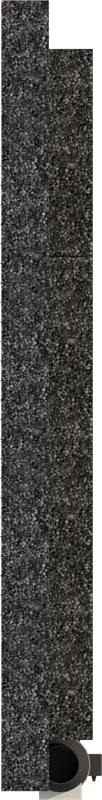
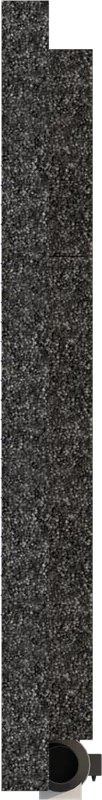
v1.95.0 — Booth art: all 8 window renders (host-width pick, 43"/31" borrow 26-series), carpet-fabric ceiling + new floor platform, revised side-vent renders

Changed region(s): [[0.0, 0.0, 0.0294, 1.0], [0.9706, 0.9375, 1.0, 0.9688]]

diff --git a/assets/layout-render.js b/assets/layout-render.js
@@ -691,10 +691,34 @@ const ELEV_ART = {
   // the corner seal draws over that overlap, like the real assembly.
   ventSide: { fileL: 'vent-side-left.webp', aspectL: 0.1388, fileR: 'vent-side-right.webp', aspectR: 0.1275, protIn: 5.5, compHIn: 80.7 },
 };
+// windows: full render set — 32-series sits in a 46″ wall, 26-series in a
+// 40″ wall. 43″/31″ host walls have no dedicated renders; per Benton the
+// 26-series art stands in (those panels are just slightly thinner than 43″).
+const WDO_ART = {
+  '3230': { file: 'wall-46-wdo3230.webp', compWIn: 46, aspect: 0.5687 },
+  '3236': { file: 'wall-46-wdo3236.webp', compWIn: 46, aspect: 0.5687 },
+  '3242': { file: 'wall-46-wdo3242.webp', compWIn: 46, aspect: 0.5687 },
+  '3248': { file: 'wall-46-wdo3248.webp', compWIn: 46, aspect: 0.5675 },
+  '2630': { file: 'wall-40-wdo2630.webp', compWIn: 40, aspect: 0.4950 },
+  '2636': { file: 'wall-40-wdo2636.webp', compWIn: 40, aspect: 0.4938 },
+  '2642': { file: 'wall-40-wdo2642.webp', compWIn: 40, aspect: 0.4938 },
+  '2648': { file: 'wall-40-wdo2648.webp', compWIn: 40, aspect: 0.4938 },
+};
 function elevArtFor(kind, line) {
+  if (!line) return null;
+  const pack = String(line.pack || '');
+  if (kind === 'WDO') {
+    const m = pack.match(/WDO\s*(\d{2})(\d{2})/i);
+    if (!m) return null;
+    const host = +((pack.match(/^(?:FR\s+)?STDWL(\d+)/i) || [])[1] || 46);
+    const series = host < 46 ? '26' : '32';
+    const want = +m[2];
+    const h = [30, 36, 42, 48].reduce((b, x) => Math.abs(x - want) < Math.abs(b - want) ? x : b, 30);
+    return WDO_ART[series + h] || null;
+  }
   const art = ELEV_ART[kind];
-  if (!art || !line) return null;
-  if (art.packOk && !art.packOk.test(String(line.pack || ''))) return null;
+  if (!art) return null;
+  if (art.packOk && !art.packOk.test(pack)) return null;
   return art;
 }
 
@@ -735,10 +759,11 @@ function renderElevationSvg(layout, assign, facing) {
   const roofPad = ROOF ? 9 * PX2 : 0;            // headroom for the on-roof ducts
   const M = 46;
   const totalW = Wp + M * 2 + (leftVent ? EOUT2 : 0) + (rightVent ? EOUT2 : 0);
-  const totalH = Hp + liftPx + 34 + 30 + ((leftVent || rightVent) ? 16 : 0) + roofPad;
+  const totalH = Hp + liftPx + 34 + 30 + 5 + ((leftVent || rightVent) ? 16 : 0) + roofPad;
   const x0 = M + (leftVent ? EOUT2 : 0), y0 = 24 + roofPad;
   const fb = y0 + Hp;                          // booth floor (bottom of the walls)
-  const gy = fb + liftPx;                      // ground line (= booth floor unless casters)
+  const FLOORH = 4.5;                          // floor platform peeking below the walls
+  const gy = fb + FLOORH + liftPx;             // ground line (floor strip, then casters)
   const iy = v => fb - v * PX2;                // inches above the BOOTH FLOOR → px
 
   let s = `<svg class="ld-elev-svg" viewBox="0 0 ${totalW} ${totalH}" preserveAspectRatio="xMidYMid meet" `
@@ -751,6 +776,7 @@ function renderElevationSvg(layout, assign, facing) {
     // seam seals sit PROUD of the wall plane — a soft cast shadow on both
     // sides gives the joint the depth Benton's assembly render shows (the
     // flat composites read "very plain together" without it)
+    + `<pattern id="ldCarpetArt" patternUnits="userSpaceOnUse" width="${46 * PX2}" height="${(46 / 0.5687) * PX2}"><image href="${ART_BASE}wall-46.webp" width="${46 * PX2}" height="${(46 / 0.5687) * PX2}" preserveAspectRatio="none"/></pattern>`
     + `<filter id="ldSealShadow" x="-150%" y="-8%" width="400%" height="116%">`
     +   `<feDropShadow dx="-2.4" dy="0" stdDeviation="2" flood-color="#000" flood-opacity="0.5"/>`
     +   `<feDropShadow dx="2.4" dy="1.5" stdDeviation="2" flood-color="#000" flood-opacity="0.45"/>`
@@ -886,8 +912,11 @@ function renderElevationSvg(layout, assign, facing) {
     if (!art || kind === 'VNT') feats += elevFeatures(kind, line, x0 + off, w, !!art);
     off += w;
   }
-  // roof cap
-  s += `<rect x="${x0 - 2.5}" y="${y0 - 3.5}" width="${Wp + 5}" height="4.5" rx="1.8" fill="url(#ldSeal)" stroke="#15161a" stroke-width="0.8"/>`;
+  // roof cap + floor platform — the SAME carpet as the wall renders (the old
+  // speckle pattern read as a different fabric). The floor peeks out just
+  // below the walls, mirroring the cap, like the real booth base.
+  s += `<rect x="${x0 - 2.5}" y="${y0 - 3.5}" width="${Wp + 5}" height="4.5" rx="1.8" fill="url(#ldCarpetArt)" stroke="#15161a" stroke-width="0.8"/>`;
+  s += `<rect x="${x0 - 2.5}" y="${fb - 1}" width="${Wp + 5}" height="${FLOORH + 1}" rx="1.8" fill="url(#ldCarpetArt)" stroke="#15161a" stroke-width="0.8"/>`;
   // roof-mounted vent set: the duct boxes ride ON the roof — visible from
   // every side, so they always draw when the booth is roof-vented
   if (ROOF) {
@@ -906,7 +935,7 @@ function renderElevationSvg(layout, assign, facing) {
   }
   // caster plate + wheels (booth raised ~5″ off the ground)
   if (lift > 0) {
-    s += `<rect x="${x0 - 1}" y="${fb}" width="${Wp + 2}" height="${liftPx * 0.38}" rx="1.5" fill="#26282d" stroke="#15161a" stroke-width="0.8"/>`;
+    s += `<rect x="${x0 - 1}" y="${fb + FLOORH}" width="${Wp + 2}" height="${liftPx * 0.38}" rx="1.5" fill="#26282d" stroke="#15161a" stroke-width="0.8"/>`;
     for (const f of [0.08, 0.36, 0.64, 0.92]) {
       const wx = x0 + Wp * f;
       s += `<circle cx="${wx}" cy="${gy - liftPx * 0.32}" r="${liftPx * 0.34}" fill="#1b1c20" stroke="#000" stroke-width="0.8"/>`;

diff --git a/templates/changelog.d/1.95.0.js b/templates/changelog.d/1.95.0.js
@@ -1,0 +1,8 @@
+module.exports = {
+  v: '1.95.0', date: 'June 10, 2026', tag: 'feature',
+  changes: [
+    { t: 'add', d: '**Every window size is a real render now.** All eight window walls (32&times;30/36/42/48 in the 46&Prime; wall, 26&times;30/36/42/48 in the 40&Prime; wall) composite from Benton&apos;s renders, picked by the host wall and window height. Windows on 43&Prime;/31&Prime; walls borrow the 26-series art — those panels are only slightly thinner.' },
+    { t: 'ui', d: '**Ceiling matches the fabric — and the booth has a floor.** The roof cap now wears the same carpet as the wall renders (it was a slightly different speckle), and a matching floor platform peeks out below the walls, like the real booth base.' },
+    { t: 'fix', d: '**Side-vent renders updated** to the revised exports (the ducts sat pushed into the booth a touch too far).' },
+  ],
+};

diff --git a/bot/specsheet-work/import-art.py b/bot/specsheet-work/import-art.py
@@ -22,14 +22,24 @@ DST = os.path.join(os.path.dirname(__file__), '..', '..', 'assets', 'booth-art')
 MAP = {
     'Components_46Wall.png':              'wall-46.webp',
     'Components_46VentWall.png':          'wall-46-vnt.webp',
+    # windows: 32-series live in a 46″ wall, 26-series in a 40″ wall.
+    # (no 43″/31″-wall window renders exist — per Benton the 26-series art
+    # stands in for those; the renderer picks by host-wall width)
+    'Components_3230 WDO.png':            'wall-46-wdo3230.webp',
     'Components_3236 WDO.png':            'wall-46-wdo3236.webp',
+    'Components_3242 WDO.png':            'wall-46-wdo3242.webp',
+    'Components_3248 WDO.png':            'wall-46-wdo3248.webp',
+    'Components_2630 WDO.png':            'wall-40-wdo2630.webp',
+    'Components_2636 WDO.png':            'wall-40-wdo2636.webp',
+    'Components_2642 WDO.png':            'wall-40-wdo2642.webp',
+    'Components_2648 WDO.png':            'wall-40-wdo2648.webp',
     'Components_30DoorLEFT.png':          'door-30-left.webp',
     'Components_Mid Wall Seam Seal.png':  'seal-mid.webp',
     'Components_Corner Seam Seal.png':    'seal-corner.webp',
     # side views of the vent wall (wall edge + ducts + fan) — composited at
     # the booth edge when the vent sits on a wall ADJACENT to the facing one
-    'Components_VentilationLeftSide.png':  'vent-side-left.webp',
-    'Components_VentilationRightSide.png': 'vent-side-right.webp',
+    'Components_ventilationLeftSide.png':  'vent-side-left.webp',
+    'Components ventilationRightSide.png': 'vent-side-right.webp',
 }
 # The door logo plate ("WhisperRoom" below the window) in door-30-left at
 # 800px-tall scale — re-pasted unmirrored into the right-hinge variant so a
@@ -39,8 +49,22 @@ DOOR_LOGO_BOX = (195, 382, 266, 408)   # x1,y1,x2,y2 in the 456x800 art
 def load_cropped(name):
     im = Image.open(os.path.join(SRC, name)).convert('RGBA')
     a = np.array(im)
-    ys, xs = np.where(a[..., 3] > 8)
-    return im.crop((xs.min(), ys.min(), xs.max() + 1, ys.max() + 1))
+    mask = a[..., 3] > 8
+    # crop to the LARGEST contiguous block of content — strays (a leftover
+    # SketchUp edge floating beside the component) get dropped even when
+    # they're full-height lines
+    def main_run(profile, thresh):
+        on = profile > thresh
+        runs, start = [], None
+        for i, v in enumerate(on):
+            if v and start is None: start = i
+            if not v and start is not None: runs.append((start, i)); start = None
+        if start is not None: runs.append((start, len(on)))
+        # widest run wins (the component dwarfs any stray line)
+        return max(runs, key=lambda r: r[1] - r[0])
+    c0, c1 = main_run(mask.sum(axis=0), mask.shape[0] * 0.01)
+    r0, r1 = main_run(mask.sum(axis=1), mask.shape[1] * 0.01)
+    return im.crop((c0, r0, c1, r1))
 
 def save(im, dst):
     p = os.path.join(DST, dst)

diff --git a/DEVLOG.md b/DEVLOG.md
@@ -972,6 +972,7 @@ Source of truth for in-app changelog is `templates/changelog.js`. This table is 
 
 | Version | Date       | Summary |
 |---------|------------|---------|
+| 1.95.0  | 2026-06-10 | **Booth art: full window set + carpet ceiling/floor + revised side vents.** (1) 8 window renders imported (`WDO_ART` table: 32-series in 46" host, 26-series in 40" host; lookup = host width <46 -> 26-series + nearest height — per Benton 43"/31" hosts borrow 2636/2648, no dedicated renders needed). Import crop now keeps the LARGEST contiguous content block (3248 export had a stray full-height hairline that inflated the bbox to 0.92 aspect). (2) Elevation roof cap re-fabriced with `ldCarpetArt` pattern (true-scale tile of wall-46.webp — old `ldSeal` speckle read as a different material) + NEW floor platform strip below the walls (FLOORH 4.5px; ground line + caster plate shifted down). (3) Side-vent renders re-imported from Benton's revised exports (duct/wall-edge split corrected at the source; note right file is 'Components ventilationRightSide.png' with a SPACE). MINOR. |
 | 1.94.4  | 2026-06-10 | **Booth Builder: drop vector side-vent fallback + independent column scrolling.** (1) `ventSideProfile` gray bands removed entirely — they were wider than the side-view art and peeked out (Benton: 'remove those since we have the new ones working'); EFS overlay still draws. (2) Desktop layout: `.side` + `.stage` are separate `overflow-y:auto` columns in a `100vh-52px` wrap (body overflow hidden), thin scrollbars; `render()` captures+restores each column's scrollTop so option clicks don't reset position; ≤900px reverts to stacked single-scroll. bbtest stub el() grew querySelector/querySelectorAll (render now touches them). PATCH. |
 | 1.94.3  | 2026-06-10 | **Booth art: right corner seal fix + side-vent renders + Components_ refresh.** (1) Right corner seal drew NOTHING (negative-scale `<g>` + filter combo) — now both corners composite the same unmirrored render per Benton ('should look just like the left'). (2) `ventSideProfile` composites `vent-side-left/right.webp` (Benton's new side views: wall edge + ducts + fan) — ducts protrude 5.5" past the edge, wall-edge overlap sits under the corner seal; gray vector bands remain as loading fallback; EFS box still overlays. (3) Import retargeted to the `Components_*` re-uploads (door logo box re-verified at same coords; aspects synced 0.5687/0.5675). PATCH. |
 | 1.94.1  | 2026-06-10 | **Inventory: ship date next to each order in the Needed breakdown.** Source = `order_data.shipmentDraft.date` (what Jeromy enters in the orders-drawer shipment fields pre-Ship-It; falls back to `shipped.date`) — there is NO other planned-ship-date field anywhere (checked HubSpot deal props too: only after-the-fact `date_shipped`). Often void, renders —. Dated orders sort soonest-first, undated after by qty desc. |